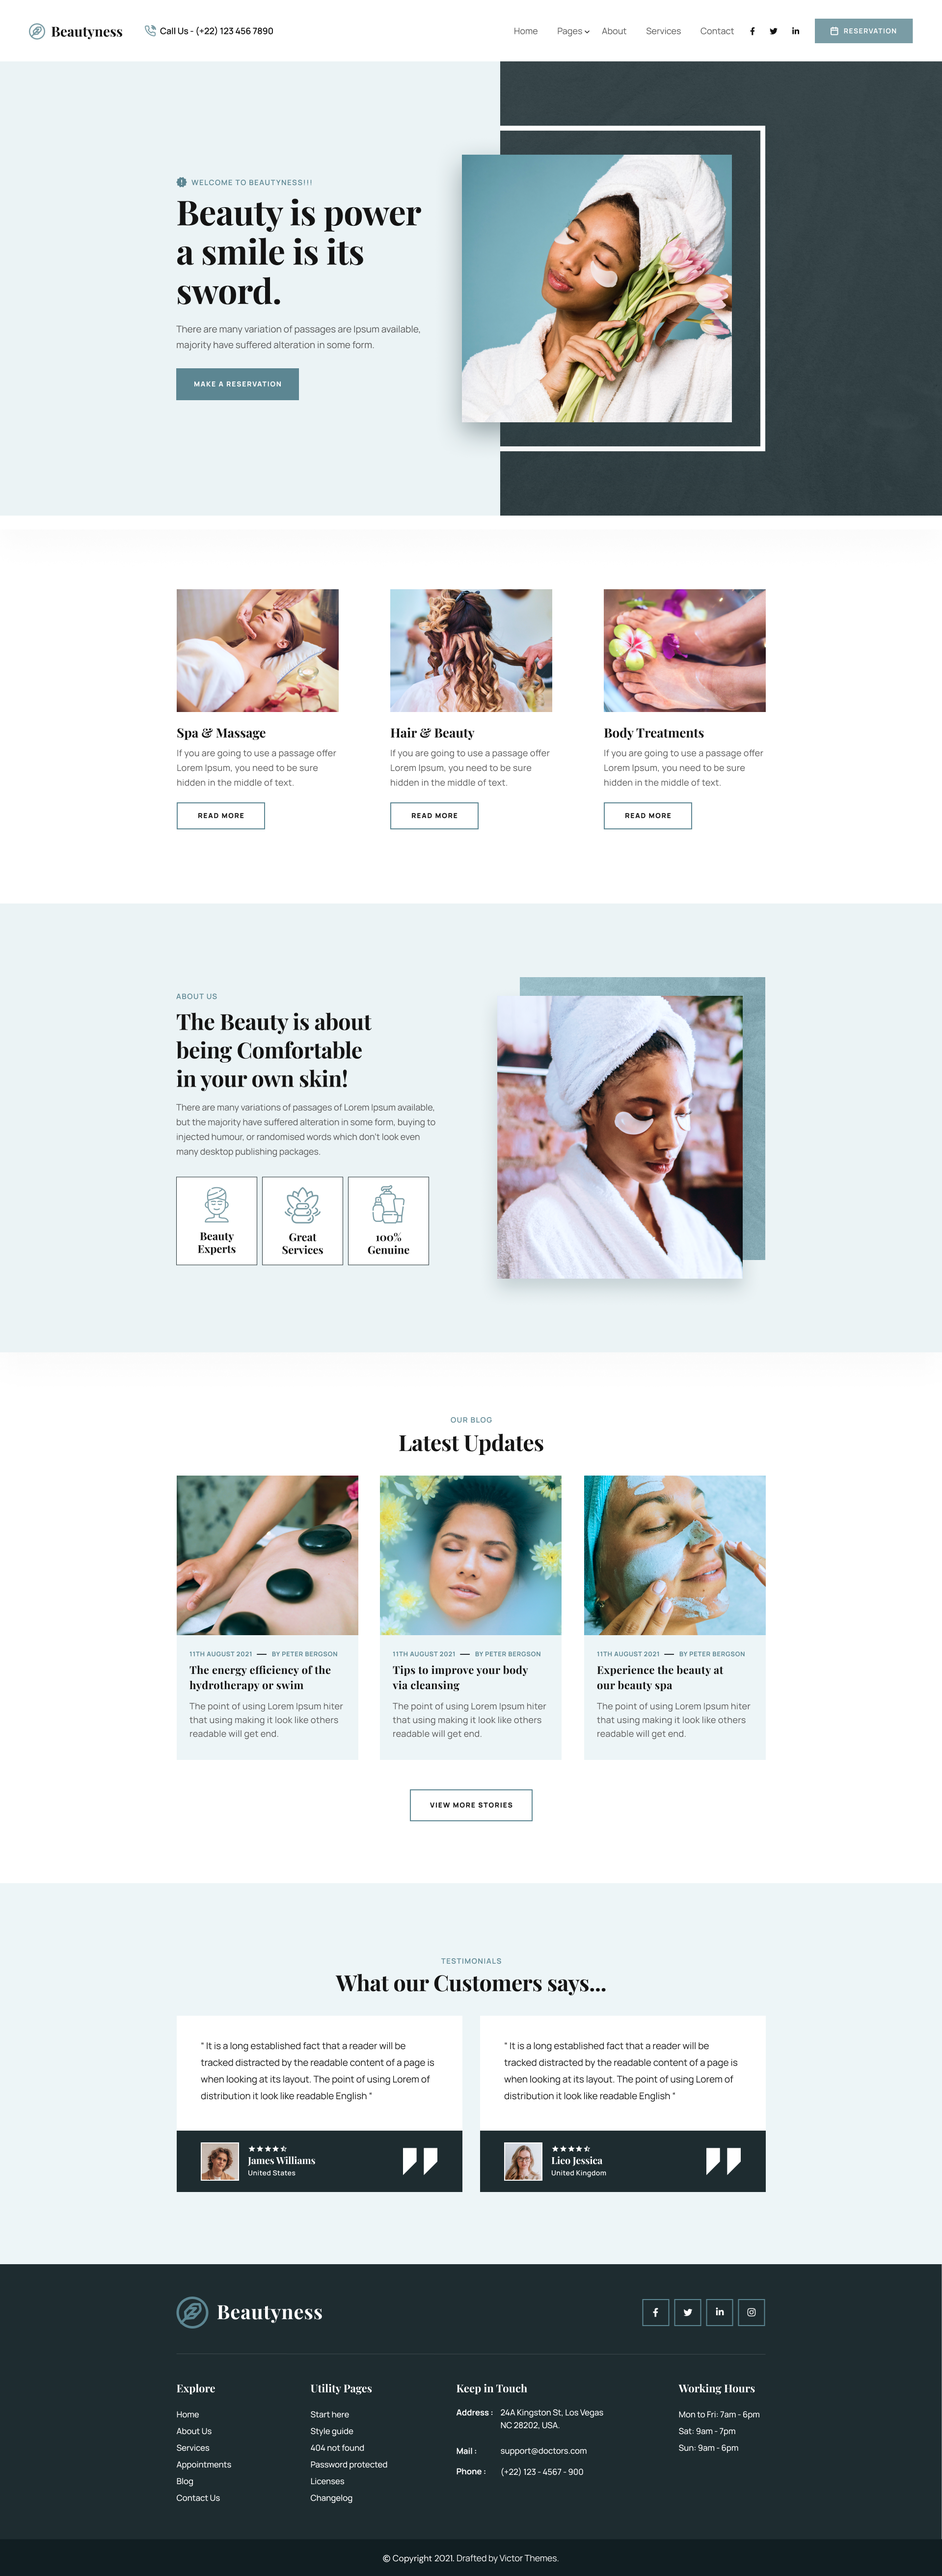
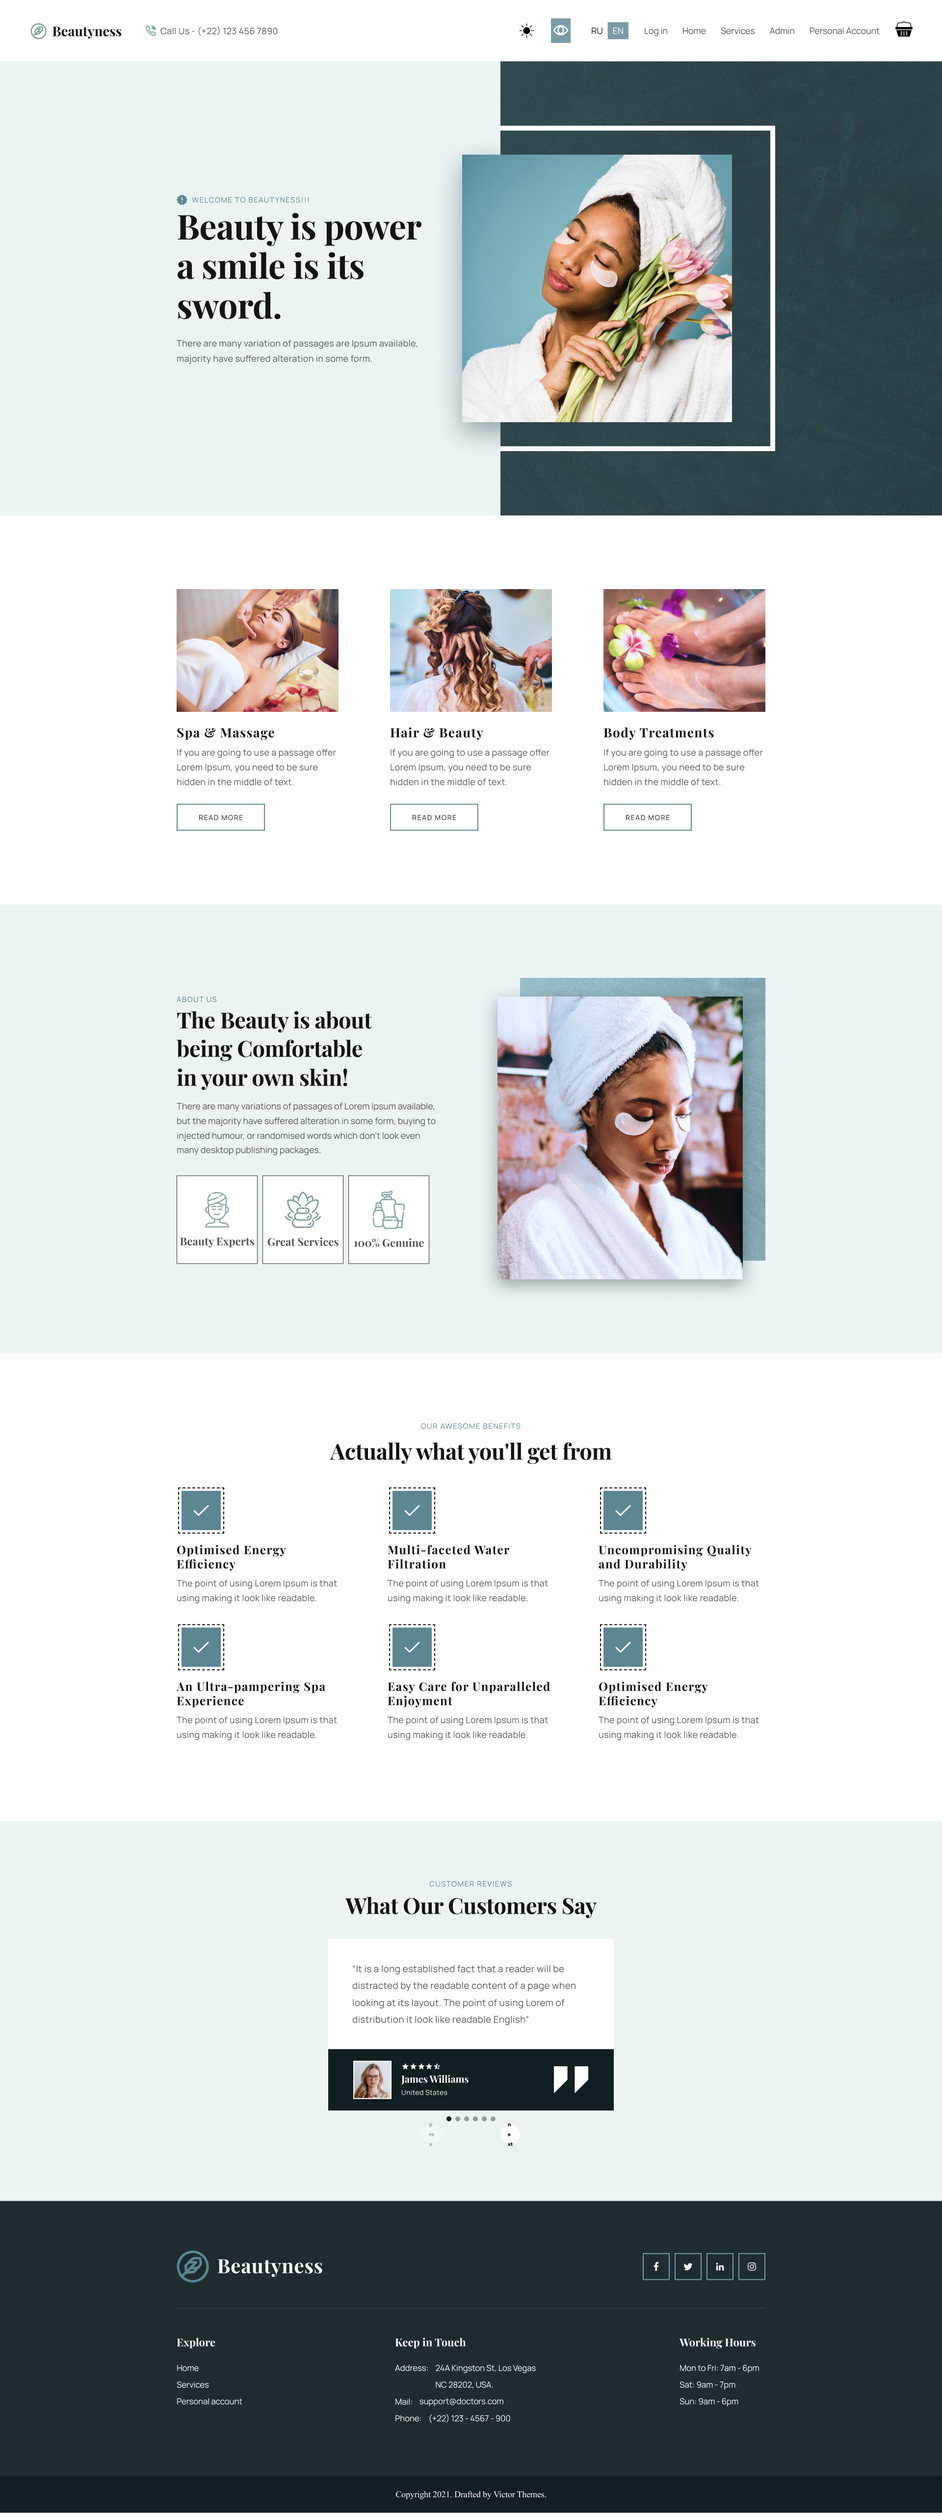
fix: update validatonForRegistration.js file

diff --git a/pages/personalAccount.html b/pages/personalAccount.html
@@ -7,8 +7,8 @@
     <link rel="stylesheet" href="/css/style.css">
     <link rel="stylesheet" href="/css/header-foter.css">
     <link rel="stylesheet" href="/css/personalAccount.css">
+    <script src="/js/personalAccount/personalAccount.js" type="module" defer></script>
     <script src="/js/baseElements/baseElements.js" type="module"></script>
-    <script src="/js/personalAccount/personalAccount.js" type="module"></script>
 </head>
 <body>
     <div class="preloader">

diff --git a/js/register/validationForRegistration.js b/js/register/validationForRegistration.js
@@ -26,6 +26,7 @@ export function showError(fieldId, messageKey) {
 
     const i18nKey = `register.errors.${messageKey}`;
     error.setAttribute('data-i18n', i18nKey);
+    const translatedMessage = getTranslation(i18nKey) || `Error: ${messageKey}`; // Fallback if translation is not found
     error.textContent = translatedMessage;
     error.classList.add('active');
     return false;
